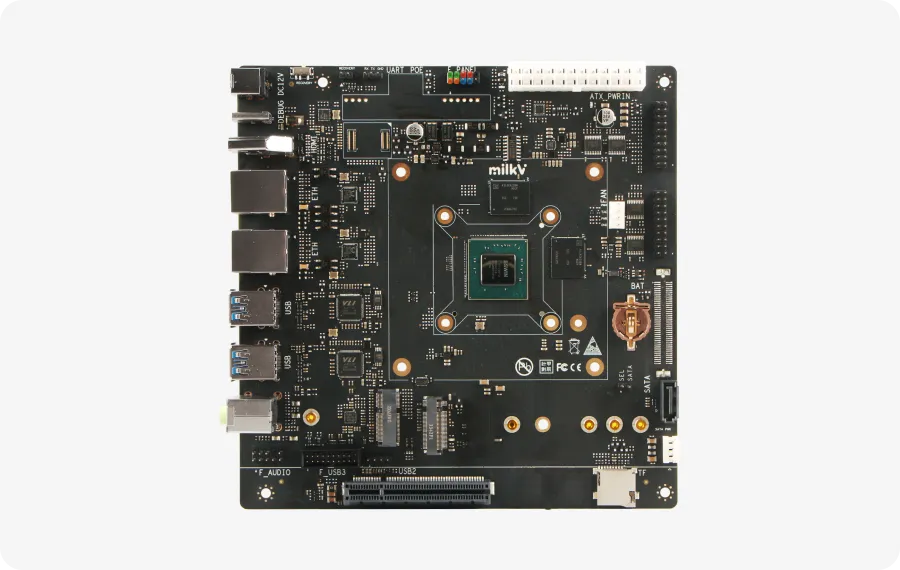
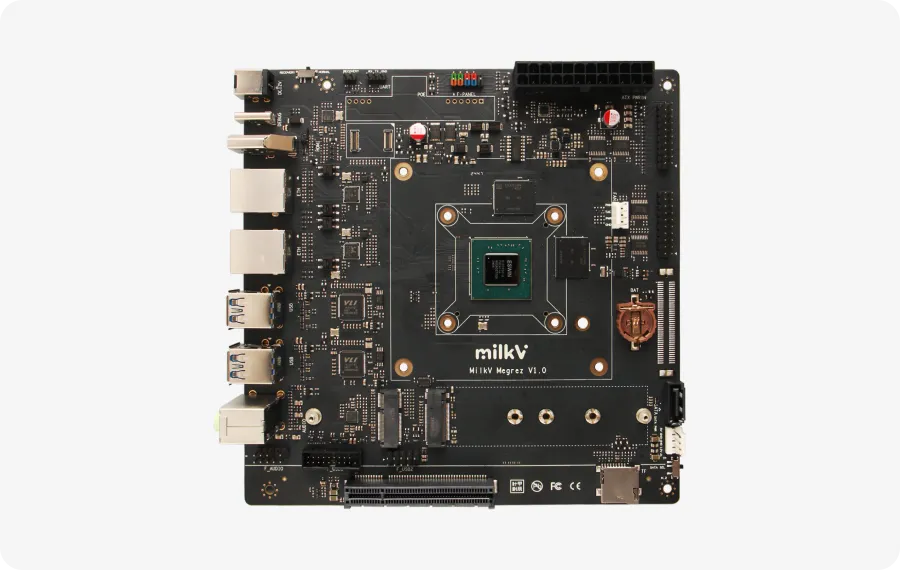
feat: add merge to home page

Changed region(s): [[0.2178, 0.0895, 0.7778, 0.8947]]

diff --git a/src/pages/index.js b/src/pages/index.js
@@ -230,6 +230,28 @@ const Vega_module = (props) => {
   )
 }
 
+const Megrez_module = (props) => {
+  return (
+    <>
+      <div className={styles.info_module}>
+        <div className={styles.main_module}>
+          <div className={styles.left_title}>
+            <h2>Milk-V Megrez</h2>
+            <p>Milk-V Megrez, a Mini-ITX device powered by the ESWIN EIC7700X, has a built-in quad-core SiFive P550 CPU for RISC-V native development. It offers a smooth desktop experience with a high-performance GPU and has a 19.95 TOPS NPU for local AI capabilities, marking a milestone in RISC-V desktop technology.</p>
+            <div className={styles.learnMore_use}>
+              <Link href='/megrez'><Translate id='homepage.corporations.vegalearnmore' /></Link>
+              <Link href='/megrez#buy' className={styles.buy_button} ><Translate id='homepage.corporations.vegabuynow' /></Link>
+            </div>
+          </div>
+          <div className={styles.right_img}>
+            <img src='/home/home-megrez-view.webp' alt='megrez' />
+          </div>
+        </div>
+      </div >
+    </>
+  )
+}
+
 const Home_web = () => {
   const [index, setIndex] = useState(0)
   const [isPaused, setIsPaused] = useState(false);
@@ -240,13 +262,14 @@ const Home_web = () => {
     { name: 'Meles', index: 3, element: <Meles_module /> },
     { name: 'Vega', index: 4, element: <Vega_module /> },
     { name: 'Jupiter', index: 5, element: <Jupiter_module /> },
-    { name: 'Chips', index: 6, element: <Chips_module /> },
+    { name: 'Megrez', index: 6, element: <Megrez_module /> },
+    { name: 'Chips', index: 7, element: <Chips_module /> },
   ];
 
   useEffect(() => {
     const timer = setInterval(() => {
       if (!isPaused && window.innerWidth > 750) {
-        setIndex(prevCount => (prevCount === 6 ? 0 : prevCount + 1));
+        setIndex(prevCount => (prevCount === 7 ? 0 : prevCount + 1));
       }
     }, 5000);
 
